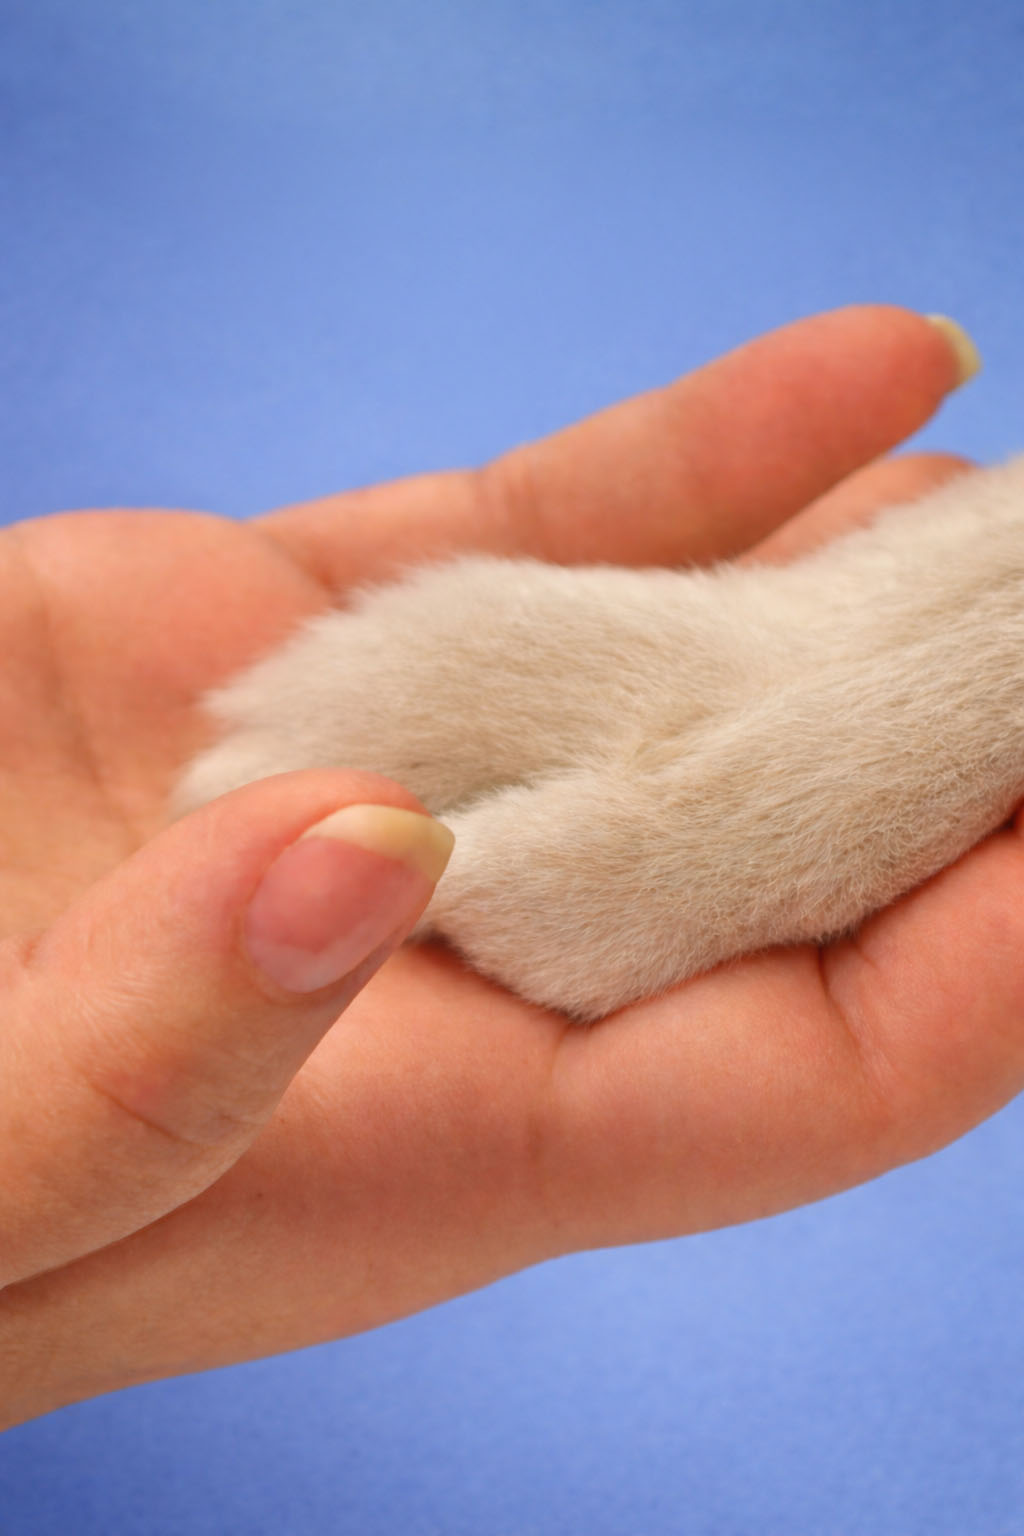
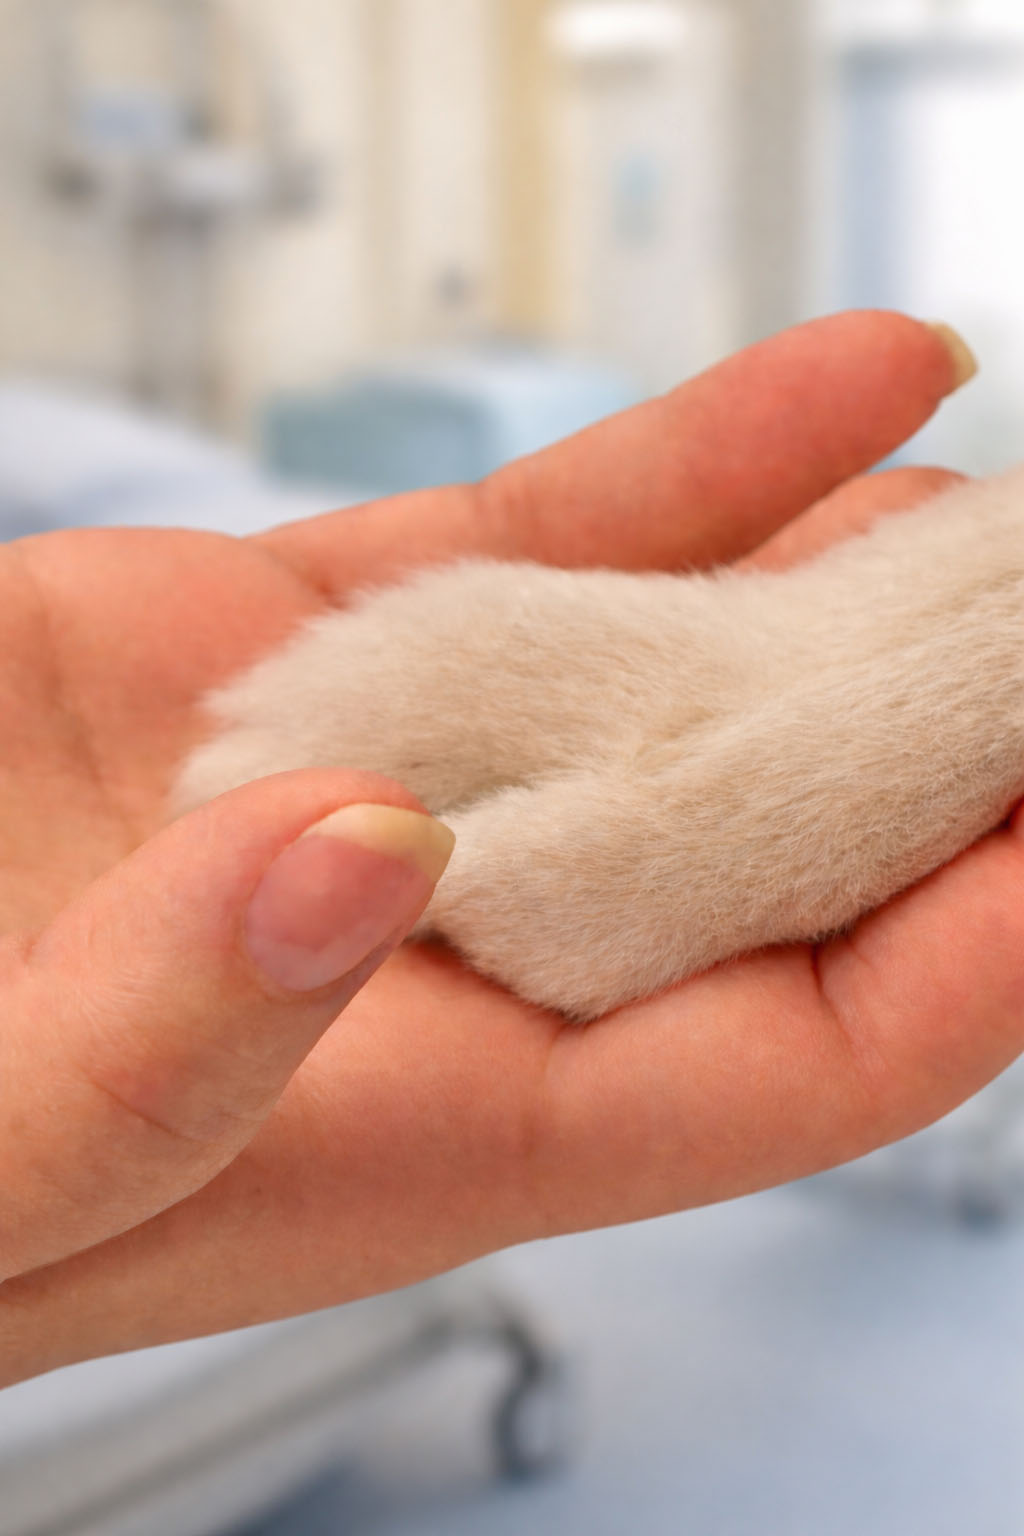
feat(home): update hero copy and paw image
Refine the homepage hero headline with emphasis on Hope and replace the hero paw photo with the new provided image while preventing an orphan wrap on the final words.

Made-with: Cursor

diff --git a/src/components/home/HomeHero.tsx b/src/components/home/HomeHero.tsx
@@ -18,9 +18,8 @@ export function HomeHero() {
             Faith-Based Ministry
           </div>
           <h1 className="font-serif text-5xl font-bold leading-[1.1] tracking-tighter text-on-background lg:text-7xl">
-            Sharing Hope and{" "}
-            <span className="italic text-primary">Comfort</span> through the
-            Love of a Furry Friend.
+            Delivering <span className="italic text-primary">Hope</span> one
+            moment at a{"\u00A0"}time.
           </h1>
           <p className="max-w-xl text-lg leading-relaxed text-on-surface-variant lg:text-xl">
             Angel Paws is a faith-based pet therapy ministry in the Houston
